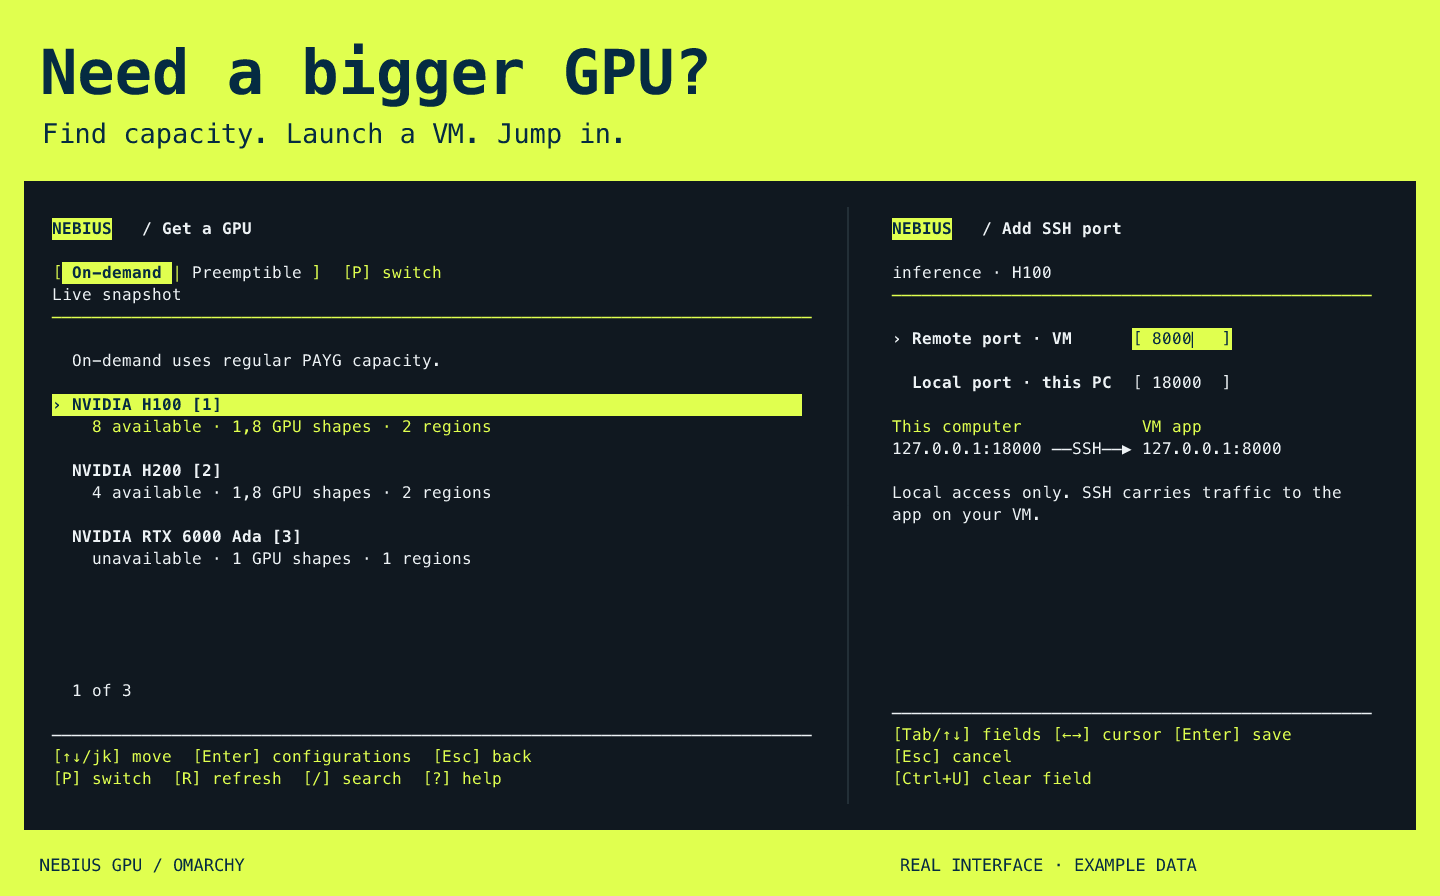
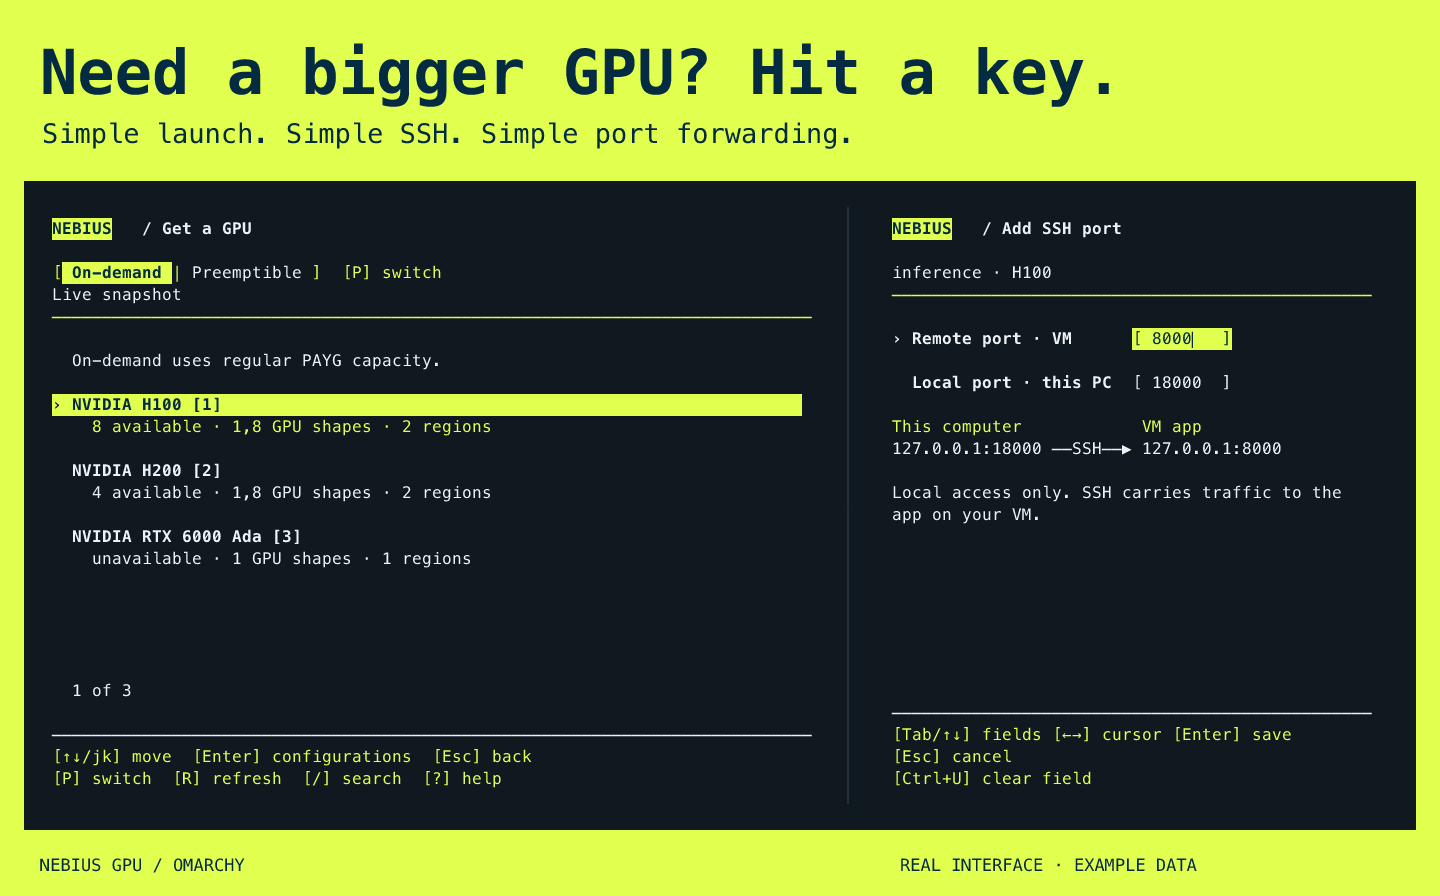
Sharpen the GPU pitch around keyboard launch, SSH and ports

Changed region(s): [[0.0312, 0.0312, 0.5938, 0.1562], [0.625, 0.0625, 0.75, 0.125]]

diff --git a/tools/preview.qml b/tools/preview.qml
@@ -28,7 +28,7 @@ ShellRoot {
     Rectangle { anchors.fill: parent; color: "#E0FF4F" }
     Text {
       x: 40; y: 32
-      text: "Need a bigger GPU?"
+      text: "Need a bigger GPU? Hit a key."
       color: "#052B42"
       font.family: "sans-serif"
       font.pixelSize: 62
@@ -36,7 +36,7 @@ ShellRoot {
     }
     Text {
       x: 42; y: 111
-      text: "Find capacity. Launch a VM. Jump in."
+      text: "Simple launch. Simple SSH. Simple port forwarding."
       color: "#052B42"
       font.family: "sans-serif"
       font.pixelSize: 27

diff --git a/tools/render_preview.py b/tools/render_preview.py
@@ -137,8 +137,8 @@ def render_cover():
     return ('<svg xmlns="http://www.w3.org/2000/svg" width="1440" height="896" viewBox="0 0 1440 896">'
             '<title>Nebius GPU: capacity and SSH ports, production interface with example data</title>'
             '<rect width="1440" height="896" fill="#E0FF4F"/>'
-            '<text x="40" y="94" font-family="sans-serif" font-size="62" font-weight="700" fill="#052B42">Need a bigger GPU?</text>'
-            '<text x="42" y="143" font-family="sans-serif" font-size="27" fill="#052B42">Find capacity. Launch a VM. Jump in.</text>'
+            '<text x="40" y="94" font-family="sans-serif" font-size="62" font-weight="700" fill="#052B42">Need a bigger GPU? Hit a key.</text>'
+            '<text x="42" y="143" font-family="sans-serif" font-size="27" fill="#052B42">Simple launch. Simple SSH. Simple port forwarding.</text>'
             '<rect x="24" y="181" width="1392" height="649" fill="#101820"/>'
             + capacity + form +
             '<path d="M848 207V804" stroke="#35454E"/>'

diff --git a/README.md b/README.md
@@ -2,10 +2,10 @@
   <img src="assets/nebius-logo.svg" alt="Nebius" width="175">
 </p>
 
-<h1 align="center">Need a bigger GPU?</h1>
+<h1 align="center">Need a bigger GPU? Hit a key.</h1>
 
 <p align="center">
-  <strong>Find capacity. Launch a VM. Jump in.</strong><br>
+  <strong>Simple launch. Simple SSH. Simple port forwarding.</strong><br>
   Nebius cloud GPUs, a few keystrokes from your Omarchy desktop.
 </p>
 
